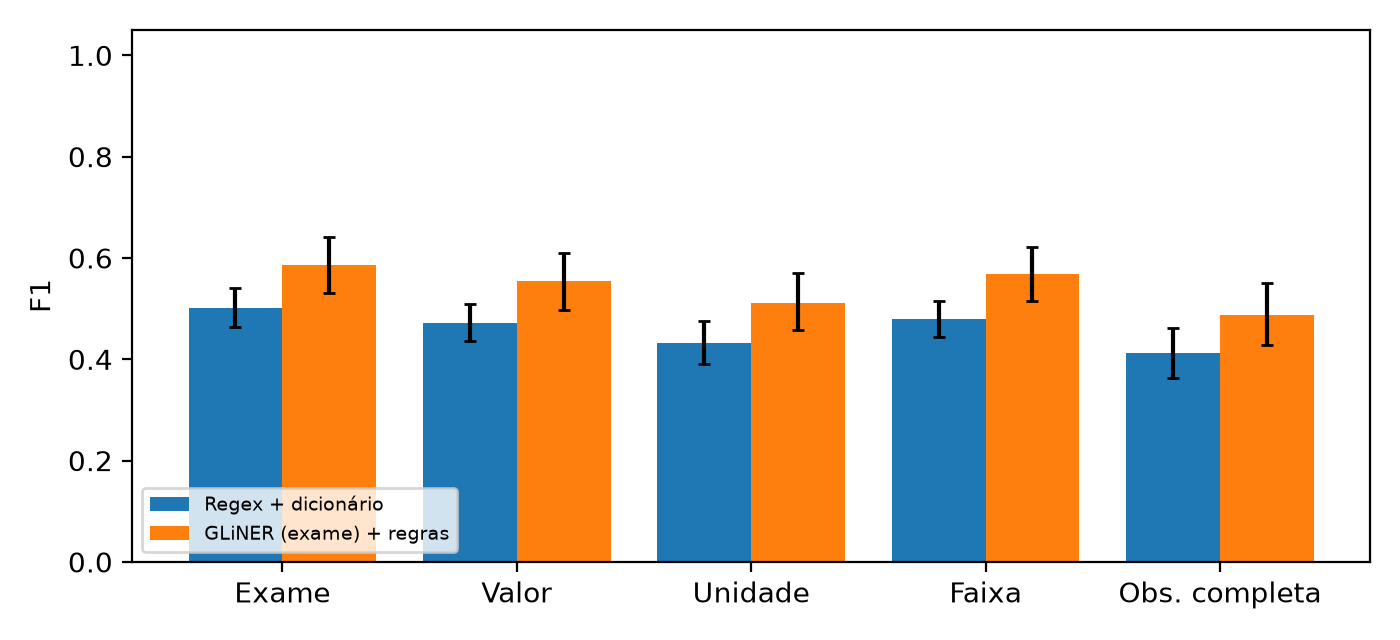
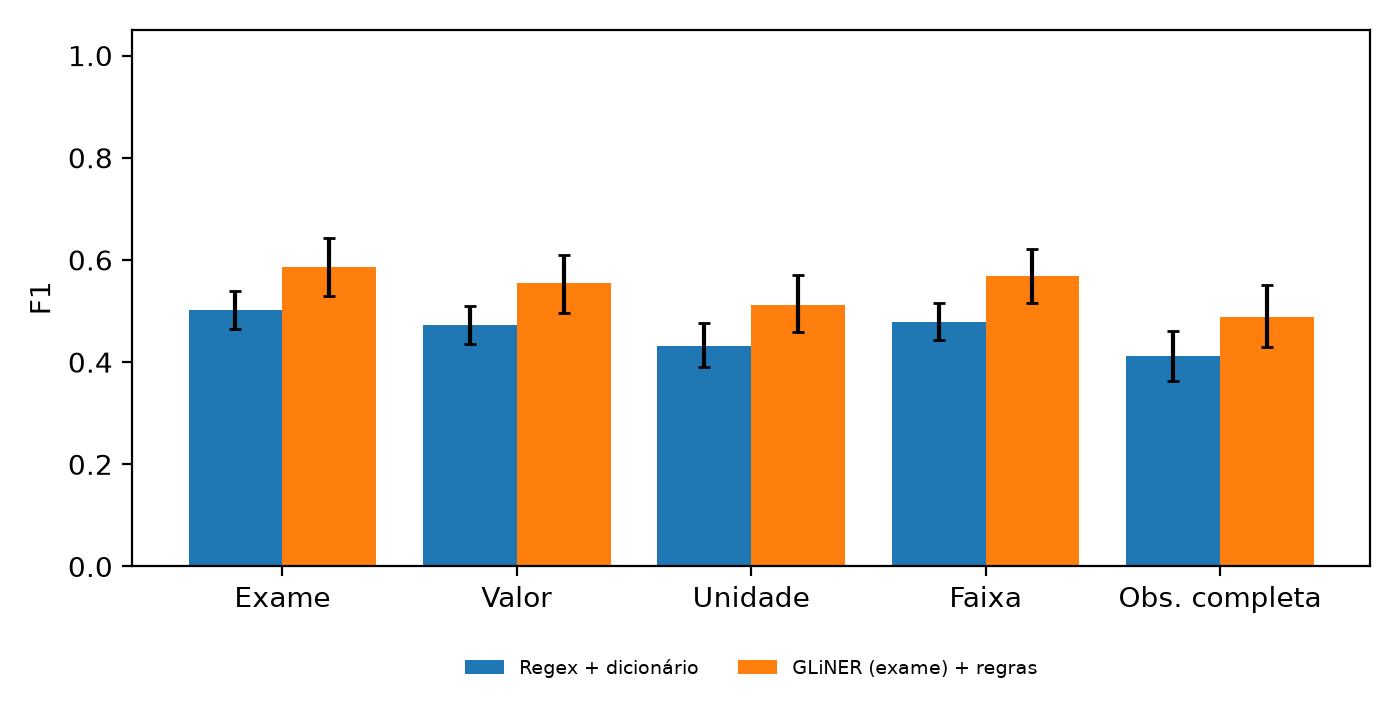
Figura de F1: legenda fora do gráfico

diff --git a/src/avaliar.py b/src/avaliar.py
@@ -204,12 +204,12 @@ def tabelas_tex(conj, lc, lf, lv, ld=()):
 def figura(conj, lc):
     import matplotlib; matplotlib.use("Agg"); import matplotlib.pyplot as plt
     ks = ["exame", "valor", "unidade", "faixa", "completa"]; ms = [m for m in METODOS if any(l[0] == m for l in lc)]
-    C = {(l[0], l[1]): l for l in lc}; fig, ax = plt.subplots(figsize=(7, 3.2)); w = 0.8 / max(len(ms), 1)
+    C = {(l[0], l[1]): l for l in lc}; fig, ax = plt.subplots(figsize=(7, 3.6)); w = 0.8 / max(len(ms), 1)
     for j, m in enumerate(ms):
         y = [float(C[(m, k)][5]) for k in ks]; e = [[y[i] - float(C[(m, k)][6]) for i, k in enumerate(ks)], [float(C[(m, k)][7]) - y[i] for i, k in enumerate(ks)]]
         ax.bar([i + j * w for i in range(len(ks))], y, w, yerr=e, capsize=2, label=NOME[m])
     ax.set_xticks([i + w * (len(ms) - 1) / 2 for i in range(len(ks))]); ax.set_xticklabels(["Exame", "Valor", "Unidade", "Faixa", "Obs. completa"])
-    ax.set_ylabel("F1"); ax.set_ylim(0, 1.05); ax.legend(fontsize=7, loc="lower left"); fig.tight_layout()
+    ax.set_ylabel("F1"); ax.set_ylim(0, 1.05); ax.legend(fontsize=7, loc="upper center", bbox_to_anchor=(0.5, -0.14), ncol=3, frameon=False); fig.tight_layout()
     fig.savefig(RES / f"f1_campos_{conj}.png", dpi=200); fig.savefig(RES / f"f1_campos_{conj}.pdf")
 
 if __name__ == "__main__":
